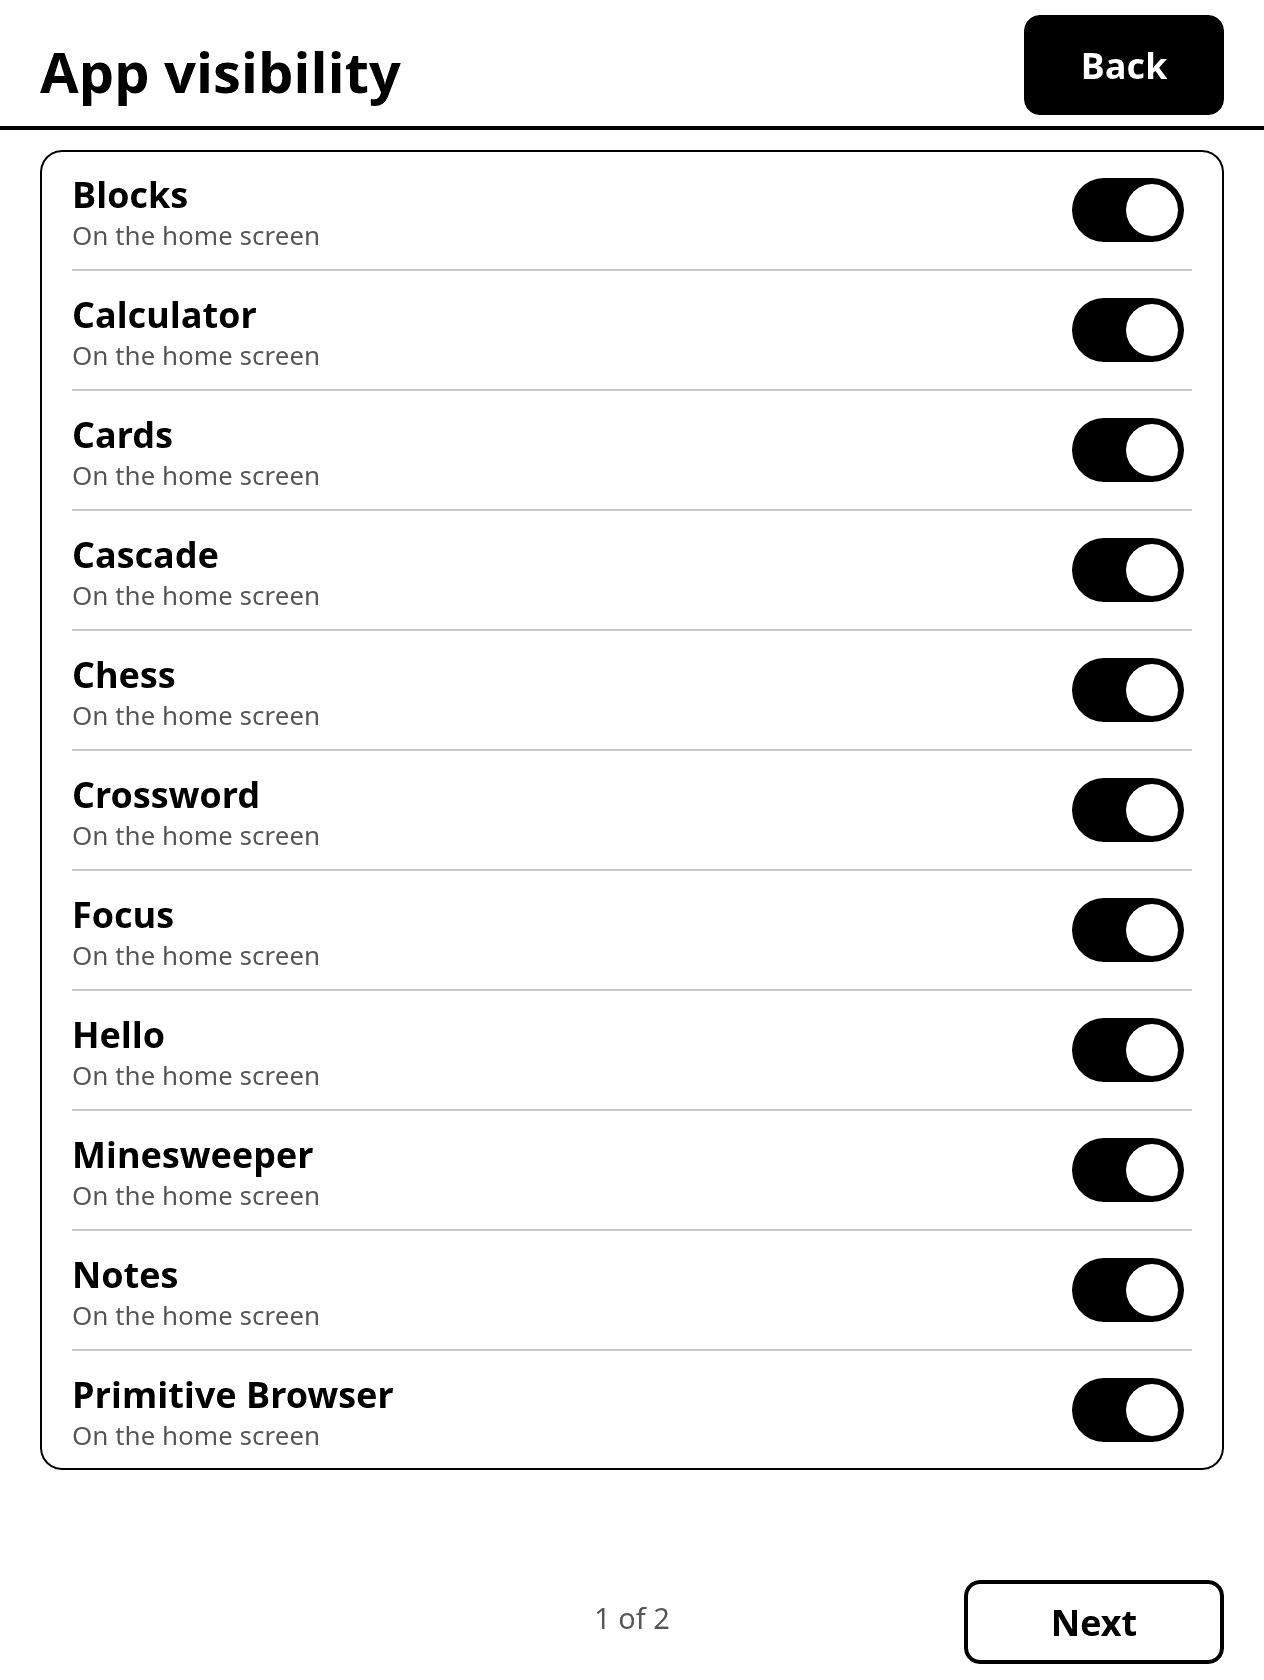
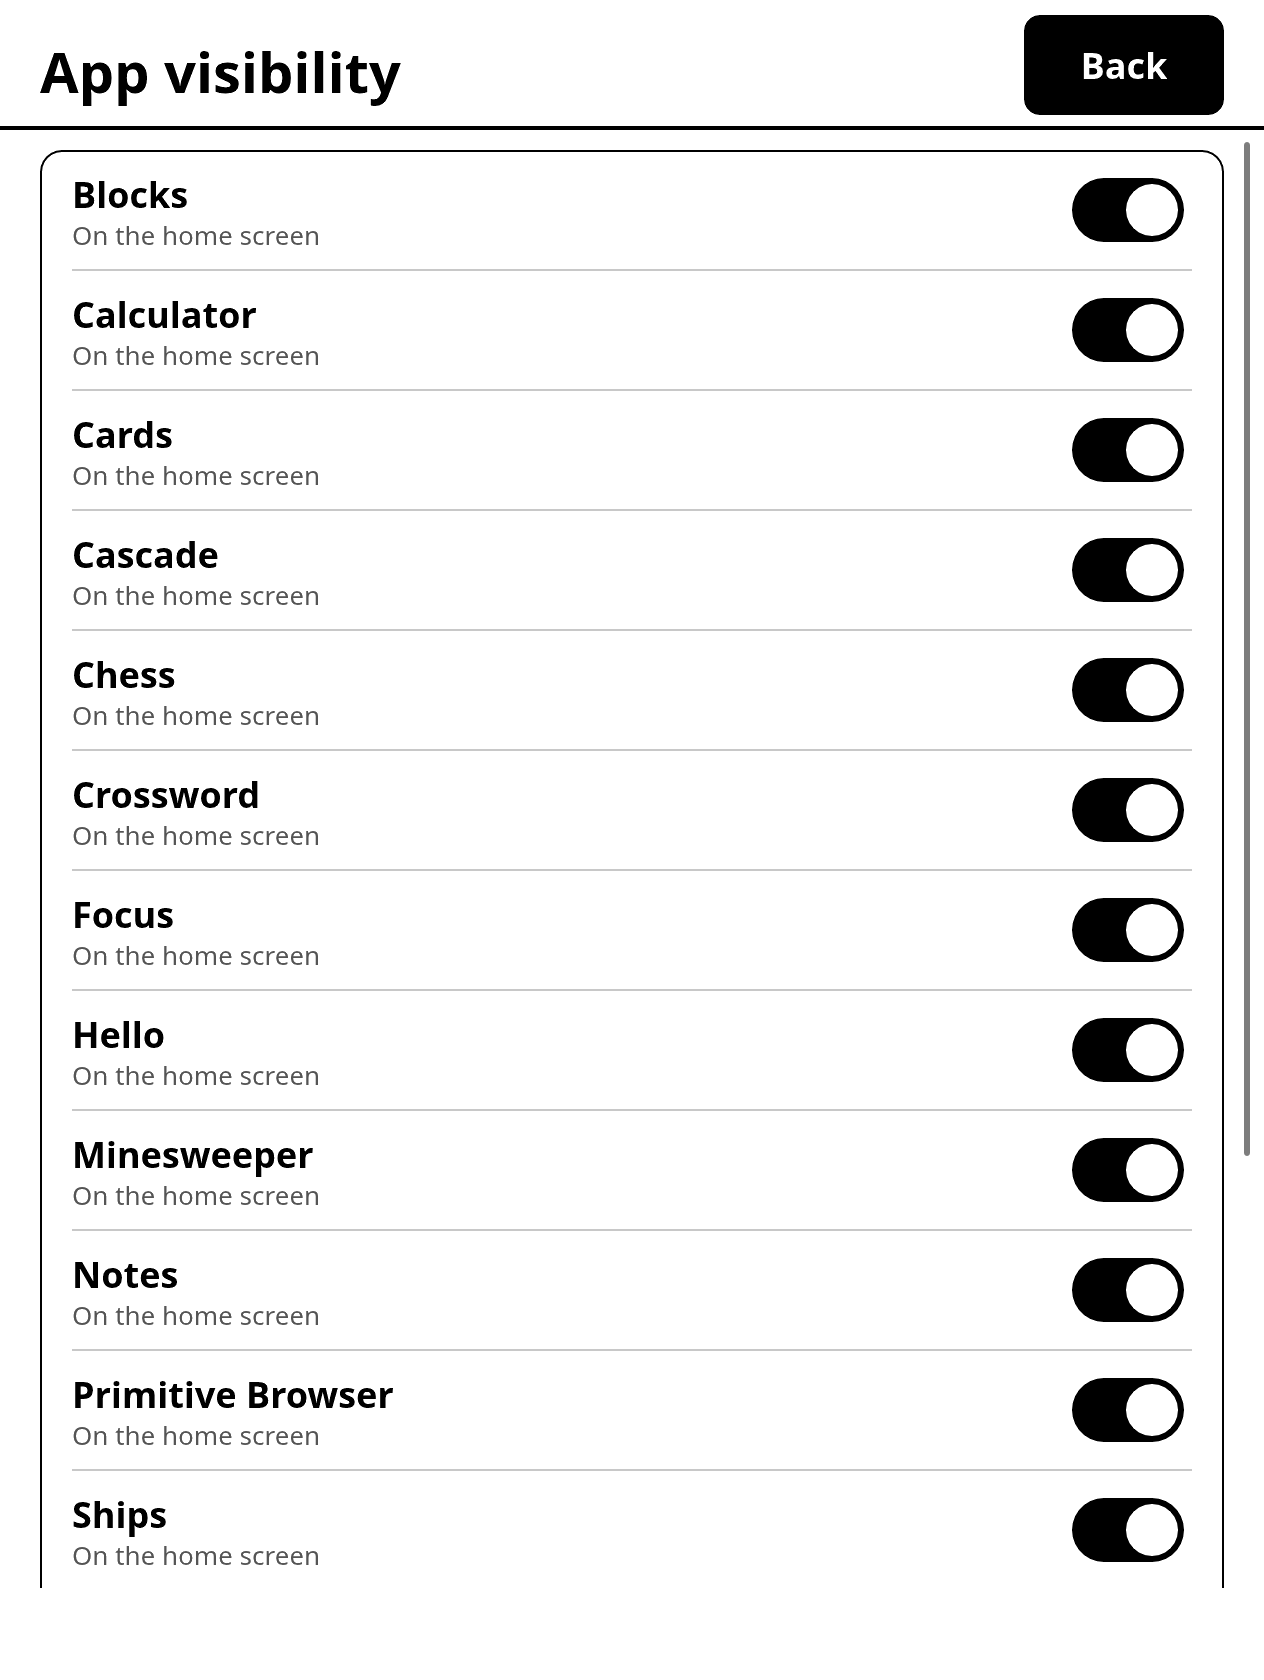
Scroll Settings vertically in Launcher 0.5.2

diff --git a/crates/kl-desktop/src/main.rs b/crates/kl-desktop/src/main.rs
@@ -202,14 +202,23 @@ fn main() {
     ui.wifi_hidden = false;
     ui.network_name = primitive_keyboard::Editor::new(32);
     ui.screen = kl_core::Screen::Settings;
-    assert_eq!(ui.settings_index, 0);
-    let page_next = ui.layout.settings_nav()[1];
-    ui.handle(Input::Tap((page_next.x + 24) as f32, (page_next.y + 24) as f32));
-    assert_eq!(ui.settings_index, 1);
-    shot(&mut renderer, &ui, "settings-apps-and-system");
-    let page_prev = ui.layout.settings_nav()[0];
-    ui.handle(Input::Tap((page_prev.x + 24) as f32, (page_prev.y + 24) as f32));
-    assert_eq!(ui.settings_index, 0);
+    let swipe = |dy| Input::Swipe { dx: 0.0, dy, start_y: H as f32 / 2.0 };
+    assert_eq!(ui.settings_scroll, 0);
+    let bottom = ui.layout.settings_scroll_max();
+    assert!(bottom > 0, "the Settings overview needs to scroll at Oasis size");
+    ui.handle(swipe(-((bottom + 80) as f32)));
+    assert_eq!(ui.settings_scroll, bottom);
+    shot(&mut renderer, &ui, "settings-scrolled");
+    let date_time = kl_core::layout::Page::DateTime;
+    let (_, row) = ui.layout.settings_home_rows(bottom).into_iter()
+        .find(|(page, _)| *page == date_time).expect("Date and time row");
+    ui.handle(Input::Tap((row.x + row.w / 2) as f32, (row.y + row.h / 2) as f32));
+    assert_eq!(ui.screen, kl_core::Screen::Page(date_time));
+    ui.handle(Input::PageBack);
+    assert_eq!(ui.screen, kl_core::Screen::Settings);
+    assert_eq!(ui.settings_scroll, bottom, "Back restores the Settings position");
+    ui.handle(swipe((bottom + 80) as f32));
+    assert_eq!(ui.settings_scroll, 0);
     for page in kl_core::layout::Page::ALL {
         ui.screen = kl_core::Screen::Page(page);
         if page == kl_core::layout::Page::Wifi {
@@ -218,6 +227,16 @@ fn main() {
         }
         let name = format!("settings-{}", page.title().to_lowercase().split(|c: char| !c.is_alphanumeric()).filter(|w| !w.is_empty()).collect::<Vec<_>>().join("-"));
         shot(&mut renderer, &ui, &name);
+        if page == kl_core::layout::Page::AppVisibility {
+            let bottom = ui.visibility_scroll_max();
+            if bottom > 0 {
+                ui.handle(swipe(-((bottom + 80) as f32)));
+                assert_eq!(ui.visibility_scroll, bottom);
+                shot(&mut renderer, &ui, "settings-app-visibility-scrolled");
+                ui.handle(swipe((bottom + 80) as f32));
+                assert_eq!(ui.visibility_scroll, 0);
+            }
+        }
     }
     ui.screen = kl_core::Screen::Settings;
     ui.screen = kl_core::Screen::ConfirmKindle;

diff --git a/README.md b/README.md
@@ -84,8 +84,8 @@ The [install guide](docs/INSTALL.md) covers first-time setup, updates, and recov
   ([device notes](docs/device-notes.md)).
 - **Quicker to be useful at boot (opt-in).** With the boot start on, the launcher opens when the stock start-up animation
   has finished, instead of waiting for the stock home screen.
-- **One place for settings.** Wi-Fi and networks, SSH and DNS, display, sleep, device and about, in pages you can read
-  at a glance, and a quick panel from the top edge with the same controls.
+- **One place for settings.** Swipe up or down through Battery, Display, Network, Apps, and System. The quick panel
+  puts frequent controls at the top edge.
 
 ## Screenshots
 
@@ -140,7 +140,7 @@ The screenshots are from the desktop build of the same code, with demo values. T
 | Kindle Oasis 3 (1264 × 1680, firmware 5.18.2) | ✅ Verified on hardware |
 | Other Kindle models | 🛠 Not supported yet |
 
-The published Launcher version is **0.4.10**. This branch contains the **0.5.1** settings update. Earlier Oasis 3
+The published Launcher version is **0.4.10**. This branch contains the **0.5.2** settings update. Earlier Oasis 3
 results are recorded in the [device notes](docs/device-notes.md). The new settings are ready for desktop review.
 
 ## Limits
@@ -175,8 +175,9 @@ The milestones and their checklists are in the [plan](docs/03-plan.md).
 - **Pages.** Swipe left or right, or use the page buttons. The dots at the bottom show the page.
 - **Edit.** Long-press an app: Move earlier, Move later, Change icon (PNG files in `launcher/icons/`), Hide.
   **Settings › Apps › App visibility** shows every app that can be hidden. **Show all** restores the hidden entries.
-- **Settings.** Tap the status bar or the Settings icon.
-- **Date and time.** On the second Settings page, see the Kindle's local clock and time zone. **Sync** under
+- **Settings.** Tap the status bar or the Settings icon. Swipe up or down through the list. **Back** from a setting
+  returns to the same position. [Settings after scrolling](docs/images/settings-scrolled.png)
+- **Date and time.** Scroll to System in Settings to see the Kindle's local clock and time zone. **Sync** under
   **Internet time** uses Cloudflare's time service over Wi-Fi where supported. **Refresh** re-reads the Kindle's
   configured time zone. [Desktop preview](docs/images/settings-date-and-time.png)
 - **Battery.** See the charge level, power state, and observed battery history. Enabling **Low power mode**

diff --git a/docs/CHANGELOG.md b/docs/CHANGELOG.md
@@ -3,6 +3,10 @@
 Each device build gets a new patch version; a new phase starts a new minor version. Releases are the versions
 with a `v*` tag.
 
+## 0.5.2
+
+- Scroll vertically through Settings and App visibility. Back from a setting returns to the same position in Settings.
+
 ## 0.5.1
 
 - Add Date and time with an on-demand Wi-Fi clock sync and the Kindle's current time zone.
